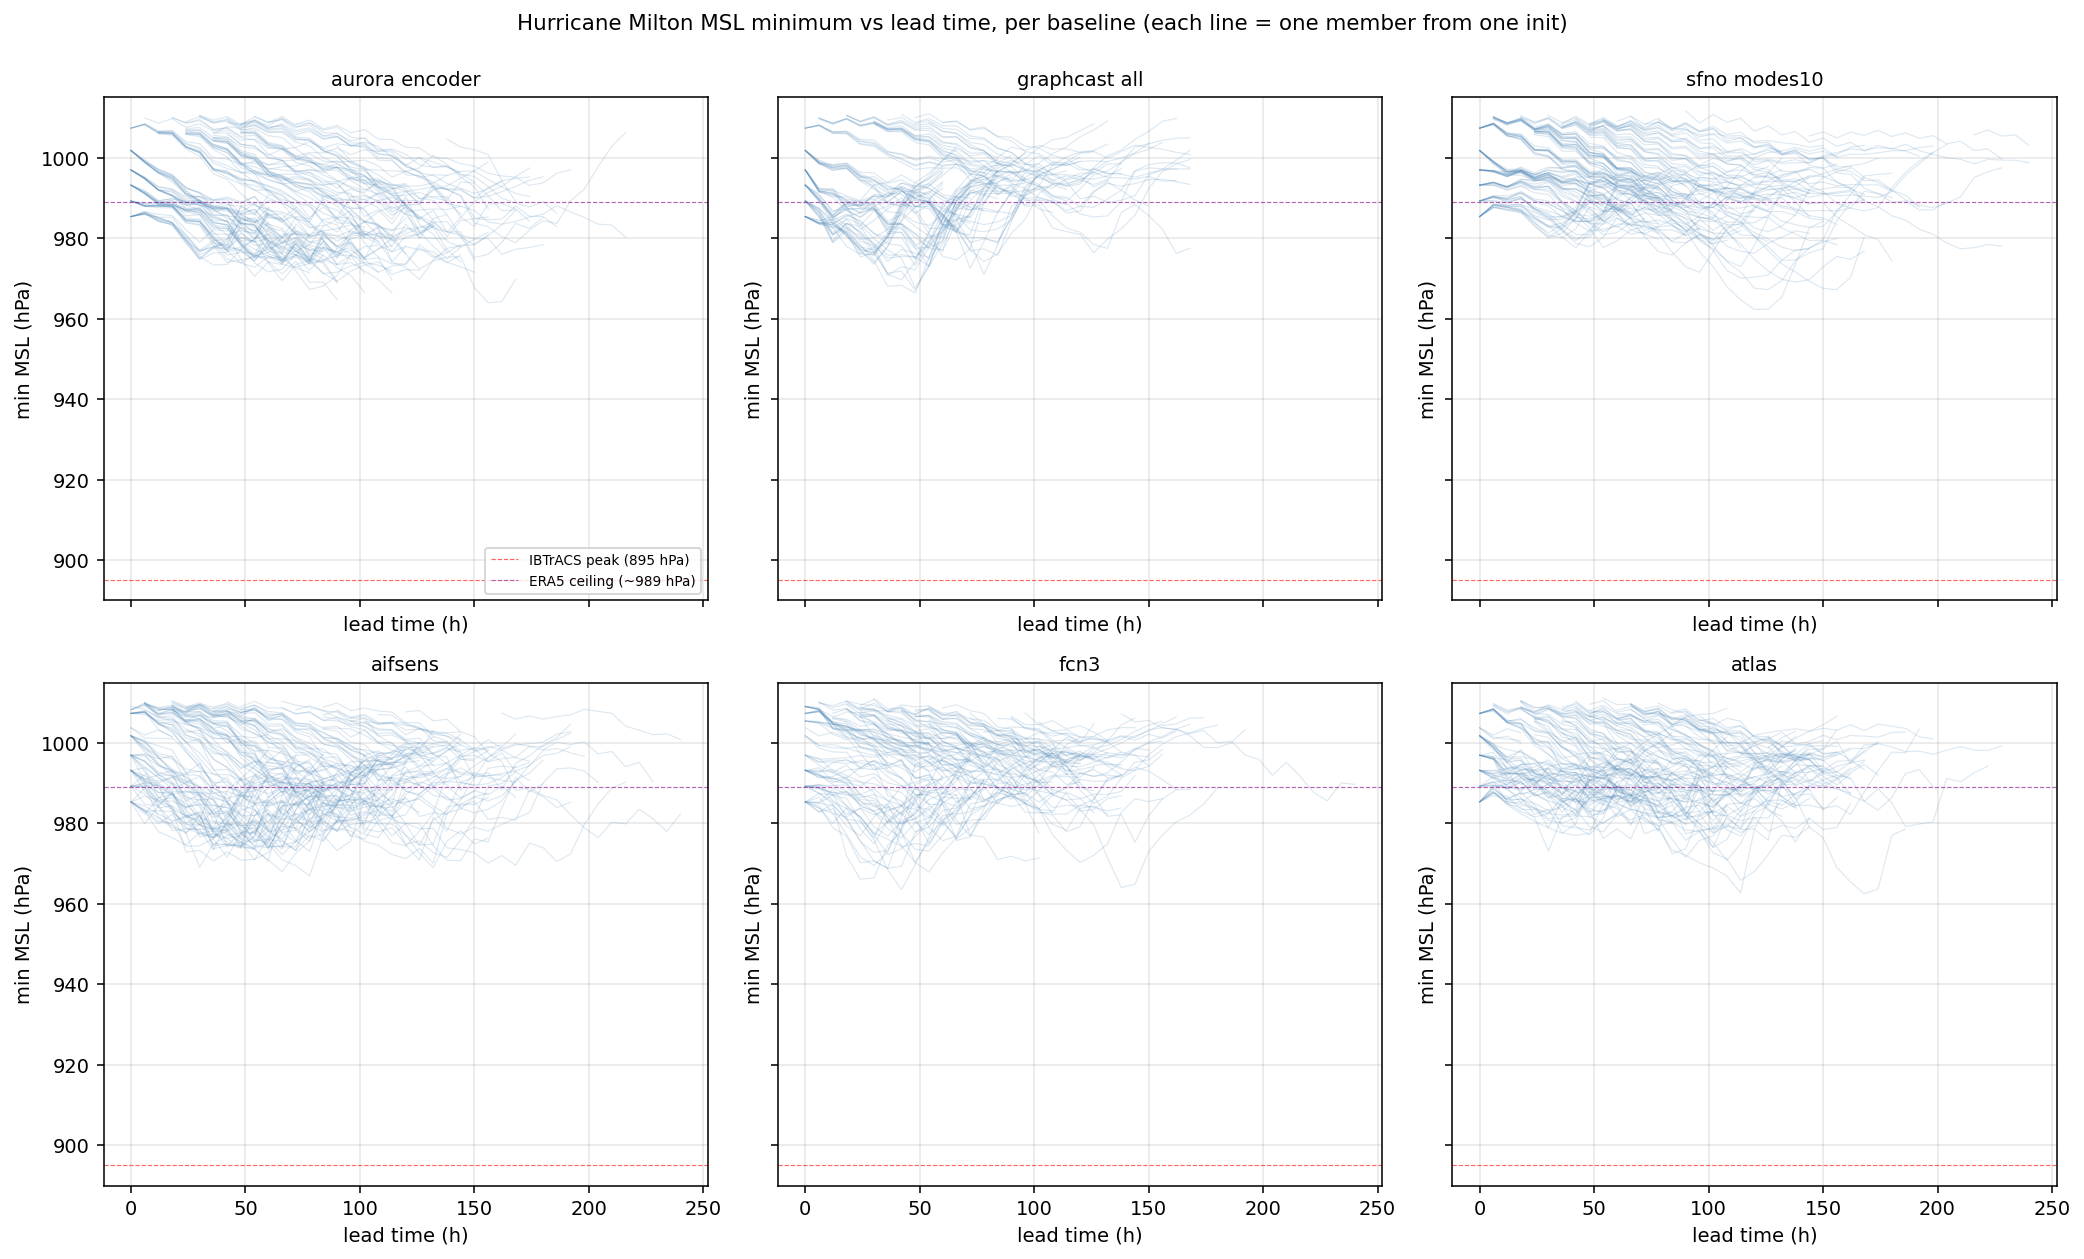
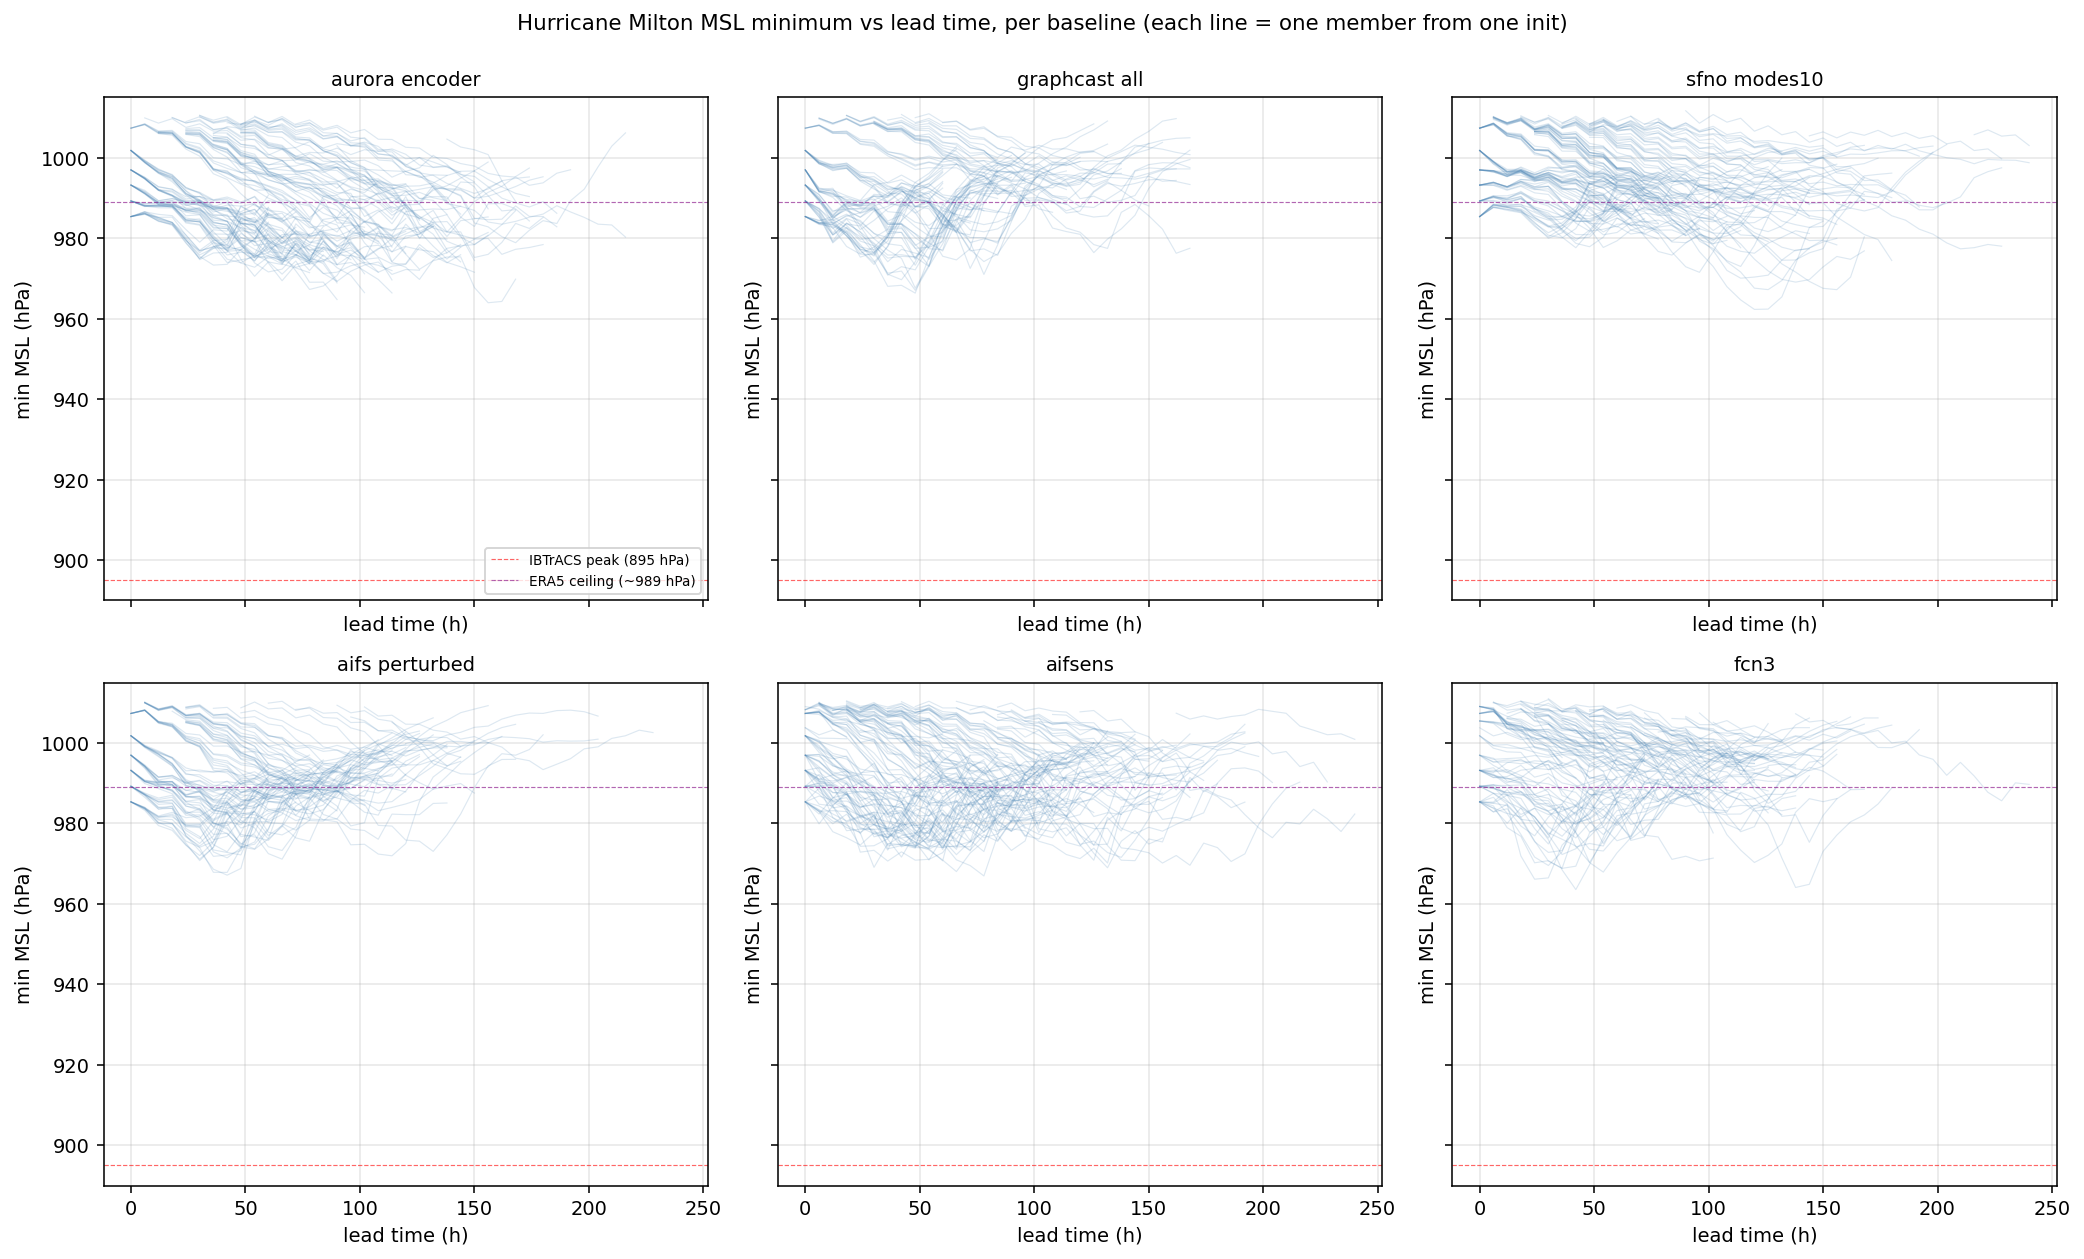
milton 7-way + clim1990 idempotent parallel
Milton case-study regen with aifs_perturbed added as the 4th post-hoc
baseline (now 7 of 8). milton_master_tracks.csv re-aggregated from disk
includes the 14 new aifs_perturbed tracker outputs (jobs 2471137_*).
milton_per_baseline_summary.csv: aifs_perturbed = 64% detection rate,
203 km mean / 99 km median position error vs IBTrACS, +42.6 hPa MSL bias
(matching the ERA5 grid ceiling), 184 km vs ERA5 control. aifs_perturbed
sits squarely in the "good post-hoc" cluster with aurora_encoder and
graphcast_all on position error, beating every trained-probabilistic
baseline. F1, F2, F5, and the milton_F3_cascading_aifs_perturbed panel
are regenerated; figures/milton_summary_table.tex grows the post-hoc
group from 3 to 4 rows and the caption now flags IFS-ENS as the
remaining pending baseline (tracker job 2473058 in flight against the
consolidated zarr).

compute_climatology_1990_2019.py rewritten for idempotency + parallel
+ chunk-aligned reads after the 2467646 TIMEOUT lost all 7 hours of
work (script wrote outputs at end only). New behaviour:

  - Per-(var, level) JSONL checkpoint at
    /iopsstor/scratch/cscs/sadamov/climatology_1990_2019_checkpoint.jsonl;
    atomic flush + fsync after each completed field so partial state
    survives a hard kill.
  - Restart skips keys already in the checkpoint and merges new keys
    into sigma_clim_1990_2019.json + empirical_crps_clim_1990_2019.json
    on the fly, so the user-facing JSONs reflect the running state.
[…]

Changed region(s): [[0.3743, 0.5266, 0.5926, 0.6815], [0.0624, 0.5266, 0.2807, 0.6815], [0.7174, 0.5576, 0.9045, 0.6815]]

diff --git a/tools/compute_climatology_1990_2019.py b/tools/compute_climatology_1990_2019.py
@@ -30,12 +30,17 @@ from __future__ import annotations
 
 import argparse
 import json
+import os
+import sys
 import time
+from concurrent.futures import ProcessPoolExecutor, as_completed
 from pathlib import Path
 
 import numpy as np
 import xarray as xr
 import dask
+
+sys.stdout.reconfigure(line_buffering=True)
 
 
 # ---------------------------------------------------------------------------
@@ -65,13 +70,26 @@ OUTDIR = Path("/iopsstor/scratch/cscs/sadamov")
 SIGMA_OUT = OUTDIR / "sigma_clim_1990_2019.json"
 CRPS_OUT = OUTDIR / "empirical_crps_clim_1990_2019.json"
 PROVENANCE_OUT = OUTDIR / "climatology_1990_2019_provenance.json"
+# Per-(var, level) JSONL checkpoint -- idempotent resume. Each line is one
+# completed field's row dict; on restart the script skips any keys already
+# present and merges new keys into the same outputs. Lines are appended
+# atomically (single write + flush + fsync) so a kill never leaves the file
+# in a half-written state.
+CHECKPOINT = OUTDIR / "climatology_1990_2019_checkpoint.jsonl"
 
 
 # ---------------------------------------------------------------------------
 # Climatology helpers
 # ---------------------------------------------------------------------------
-def open_wb2(time_chunk: int = 400) -> xr.Dataset:
-    """Open the local WB2-original reanalysis (1959-2021, 0.25 deg, 37 levels)."""
+def open_wb2(time_chunk: int = 1460) -> xr.Dataset:
+    """Open the local WB2-original reanalysis (1959-2021, 0.25 deg, 37 levels).
+
+    `time_chunk=1460` aligns to one calendar year at 6-hourly cadence so the
+    per-year pulls in ``compute_one_field`` each touch a single zarr chunk
+    along the time axis. Earlier runs with ``time_chunk=400`` issued ~3.7
+    chunk reads per year and added 30-40% overhead from chunk-boundary
+    decode work that the year-aligned size eliminates.
+    """
     return xr.open_zarr(WB2_LOCAL, consolidated=True, chunks={"time": time_chunk})
 
 
@@ -145,6 +163,33 @@ def fair_crps_leave_one_out(da_yearly: np.ndarray) -> np.ndarray:
 # ---------------------------------------------------------------------------
 # Per-variable driver
 # ---------------------------------------------------------------------------
+def _worker_one_field(
+    var: str,
+    level: int | None,
+    year_start: int,
+    year_end: int,
+    hours: tuple[int, ...],
+    dry_run: bool,
+) -> dict:
+    """ProcessPool worker: open WB2 fresh, compute one (var, level) field.
+
+    Workers cannot share xarray Datasets across the multiprocessing boundary
+    (zarr async stores are not picklable), so each worker re-opens WB2 on its
+    own. Numpy thread fanout is pinned to 1 because the year-by-year pull
+    fills 30 GB+ of NumPy arrays per worker, and a 32-thread BLAS gangs up
+    badly with multiple ProcessPool workers on a 72-CPU node.
+    """
+    for env in (
+        "OMP_NUM_THREADS",
+        "OPENBLAS_NUM_THREADS",
+        "MKL_NUM_THREADS",
+        "NUMEXPR_NUM_THREADS",
+    ):
+        os.environ.setdefault(env, "1")
+    ds = open_wb2()
+    return compute_one_field(ds, var, level, year_start, year_end, hours, dry_run=dry_run)
+
+
 def compute_one_field(
     ds: xr.Dataset,
     var: str,
@@ -332,6 +377,13 @@ def main():
         default=32,
         help="Dask thread-pool workers for HTTPS reads (default 32)",
     )
+    ap.add_argument(
+        "--parallel",
+        type=int,
+        default=4,
+        help="Number of concurrent (var, level) workers via ProcessPoolExecutor. "
+        "Memory-bound: each worker peaks at ~181 GB. Default 4 fits in 800 GB.",
+    )
     args = ap.parse_args()
 
     dask.config.set(scheduler="threads", num_workers=args.workers)
@@ -343,53 +395,111 @@ def main():
 
     OUTDIR.mkdir(parents=True, exist_ok=True)
 
-    print("Opening WB2 ARCO-ERA5 zarr over HTTPS ...")
-    ds = open_wb2()
-    print(f"  ds time range: {ds.time.min().values} .. {ds.time.max().values}")
-
-    sigma_dict: dict[str, float] = {}
-    crps_dict: dict[str, float] = {}
-    rows = []
-
+    # ----------------------------------------------------------------------
+    # Idempotency: build the full (var, level) work list, then skip keys
+    # already present in the per-field checkpoint. Each completed field
+    # appends one JSONL line with sigma + crps + dry-run sentinel.
+    # ----------------------------------------------------------------------
+    work: list[tuple[str, int | None]] = []
     for var in requested_vars:
         if var in VARS_2D:
-            row = compute_one_field(
-                ds,
-                var,
-                None,
-                args.year_start,
-                args.year_end,
-                tuple(args.hours),
-                dry_run=args.dry_run,
-            )
-            rows.append(row)
-            if not args.dry_run:
-                sigma_dict[var] = {
-                    "unconditional": row["sigma_clim"],
-                    "doy_conditional": row["sigma_clim_doy"],
-                }
-                crps_dict[var] = row["empirical_crps_clim"]
+            work.append((var, None))
         elif var in VARS_3D:
             for lvl in requested_levels:
-                row = compute_one_field(
-                    ds,
+                work.append((var, int(lvl)))
+        else:
+            print(f"WARN: unknown variable {var!r}, skipping", flush=True)
+
+    sigma_dict: dict = {}
+    crps_dict: dict = {}
+    rows: list = []
+
+    def _key_of(var: str, level: int | None) -> str:
+        return var if level is None else f"{var}_{level}"
+
+    done_keys: set[str] = set()
+    if not args.dry_run and CHECKPOINT.exists():
+        with CHECKPOINT.open() as f:
+            for raw in f:
+                raw = raw.strip()
+                if not raw:
+                    continue
+                rec = json.loads(raw)
+                k = rec["label"]
+                done_keys.add(k)
+                sigma_dict[k] = {
+                    "unconditional": rec["sigma_clim"],
+                    "doy_conditional": rec["sigma_clim_doy"],
+                }
+                crps_dict[k] = rec["empirical_crps_clim"]
+                rows.append(rec)
+        # Promote partial-output JSONs so anyone reading them mid-run sees
+        # the keys already on disk.
+        Path(args.sigma_out).write_text(json.dumps(sigma_dict, indent=2))
+        Path(args.crps_out).write_text(json.dumps(crps_dict, indent=2))
+        print(
+            f"Resuming with {len(done_keys)} keys already in checkpoint: " f"{sorted(done_keys)}",
+            flush=True,
+        )
+
+    todo = [(v, lv) for (v, lv) in work if _key_of(v, lv) not in done_keys]
+    if not todo:
+        print("Nothing to do; checkpoint already complete.", flush=True)
+        return
+
+    print(f"Keys remaining: {len(todo)} / {len(work)}", flush=True)
+
+    # Parallel: one worker per (var, level) up to ``args.parallel`` concurrent.
+    # Each worker opens its own WB2 handle (zarr stores are not picklable),
+    # processes the year-by-year pull + per-(DOY, hour) LOO fair-CRPS, returns
+    # the row dict. Peak per-worker memory is the staging cube
+    # 30 yrs x 1460 bins x 721 x 1440 x f32 = 181 GB at full ERA5 grid; with 4
+    # workers concurrent the node sees ~720 GB of resident heap, comfortably
+    # inside the 800 GB --mem cap. dial down ``--parallel`` if memory pressure
+    # bites or for partial-grid (--levels) runs.
+    par = max(1, int(args.parallel))
+    print(f"Spawning ProcessPoolExecutor with {par} workers", flush=True)
+
+    # Append-only JSONL writer for atomic per-field commits. Each worker
+    # produces one row dict; main writes it on completion (single writer ->
+    # no contention). Explicit flush + fsync after each line so partial
+    # state survives a hard kill.
+    with CHECKPOINT.open("a", buffering=1) as ckpt:
+        with ProcessPoolExecutor(max_workers=par) as ex:
+            futures = {
+                ex.submit(
+                    _worker_one_field,
                     var,
                     lvl,
                     args.year_start,
                     args.year_end,
                     tuple(args.hours),
-                    dry_run=args.dry_run,
-                )
+                    args.dry_run,
+                ): (var, lvl)
+                for (var, lvl) in todo
+            }
+            for fut in as_completed(futures):
+                var, lvl = futures[fut]
+                key = _key_of(var, lvl)
+                try:
+                    row = fut.result()
+                except Exception as e:
+                    print(f"  FAILED {key}: {type(e).__name__}: {e}", flush=True)
+                    continue
                 rows.append(row)
-                if not args.dry_run:
-                    key = f"{var}_{lvl}"
-                    sigma_dict[key] = {
-                        "unconditional": row["sigma_clim"],
-                        "doy_conditional": row["sigma_clim_doy"],
-                    }
-                    crps_dict[key] = row["empirical_crps_clim"]
-        else:
-            print(f"WARN: unknown variable {var!r}, skipping")
+                if args.dry_run:
+                    continue
+                sigma_dict[key] = {
+                    "unconditional": row["sigma_clim"],
+                    "doy_conditional": row["sigma_clim_doy"],
+                }
+                crps_dict[key] = row["empirical_crps_clim"]
+                ckpt.write(json.dumps(row) + "\n")
+                ckpt.flush()
+                os.fsync(ckpt.fileno())
+                Path(args.sigma_out).write_text(json.dumps(sigma_dict, indent=2))
+                Path(args.crps_out).write_text(json.dumps(crps_dict, indent=2))
+                print(f"  -> committed {key} to {CHECKPOINT}", flush=True)
 
     if args.dry_run:
         total = sum(r.get("full_estimate_s", 0.0) for r in rows)

diff --git a/figures/milton_summary_table.tex b/figures/milton_summary_table.tex
@@ -9,7 +9,8 @@
 % (init, member, lead) rows. Intensity bias is mean MSL minus IBTrACS MSL
 % at matched validating times, in hPa; the +39 to +47 hPa cluster reflects
 % the 0.25 deg ERA5 resolution-limited intensity ceiling. ESFM omitted, see
-% case-study text. aifs_perturbed pending the IFS-ENS perturbed-IC redo.
+% case-study text. IFS-ENS pending (consolidated-zarr tracker handler
+% added 2026-06-05; tracker array job 2473058 in flight for 8-way set).
 
 \begin{table}[t]
   \centering
@@ -23,10 +24,10 @@
            all matched (init, member, lead) rows. The IBTrACS-axis MSL
            bias is dominated by the 0.25\,$^\circ$ ERA5 resolution-limited
            intensity ceiling and is therefore not a baseline-quality
-           discriminator (see text). Sorted by detection rate descending.
-           ESFM omitted (footnote in Sec.~\ref{sec:results-milton});
-           aifs\_perturbed pending the IFS-ENS perturbed-IC production
-           grid.}
+           discriminator (see text). Sorted by detection rate descending
+           within each role group. ESFM omitted (footnote in
+           Sec.~\ref{sec:results-milton}). IFS-ENS will be added once
+           its consolidated-zarr tracker completes the 8-way set.}
   \label{tab:milton-summary}
   \begin{tabular}{@{}l l rrrrr@{}}
     \toprule
@@ -53,6 +54,7 @@
     \multicolumn{7}{@{}l}{\textbf{Post-hoc weight perturbation (this work)}} \\
     & sfno\_modes10    & 78 & 293 & 150 & $+41.7$ & 238 \\
     & aurora\_encoder  & 74 & 196 & 124 & $+39.3$ & 172 \\
+    & aifs\_perturbed  & 64 & 203 &  99 & $+42.6$ & 184 \\
     & graphcast\_all   & 52 & 164 &  86 & $+42.5$ & 139 \\
     \bottomrule
   \end{tabular}